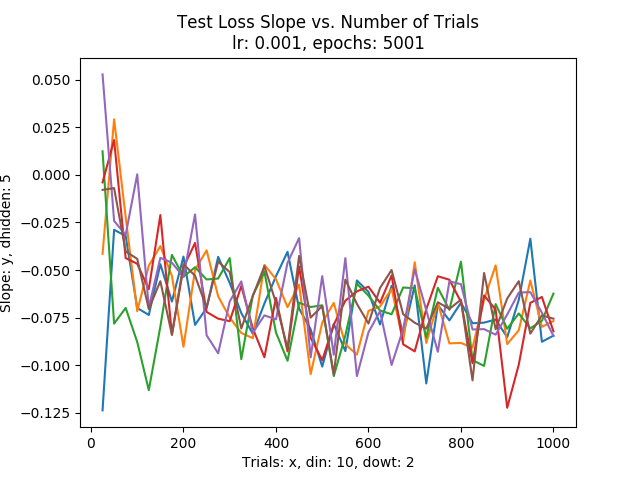
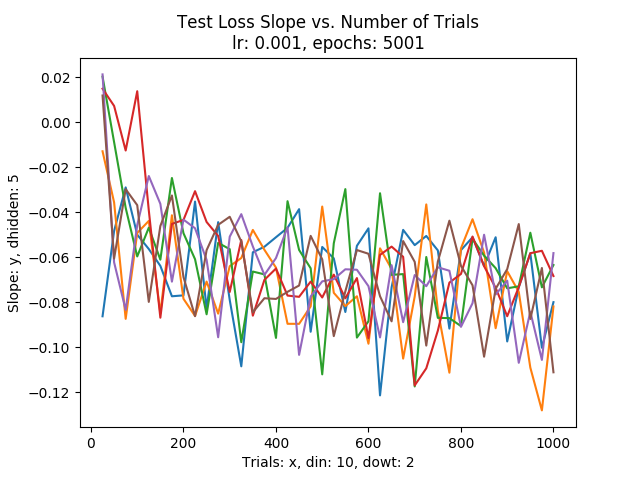
20 profiles, 1000 trials max

diff --git a/profile.py b/profile.py
@@ -51,7 +51,7 @@ if __name__ == '__main__':
     t0 = time.time()
 
     dataset = []
-    experiments = 10
+    experiments = 20
     for expe in range(experiments):
         slopes = run_all(sizes, din, dowt, dhidden, lr, epochs, device)
         print("total elapsed time: ")
